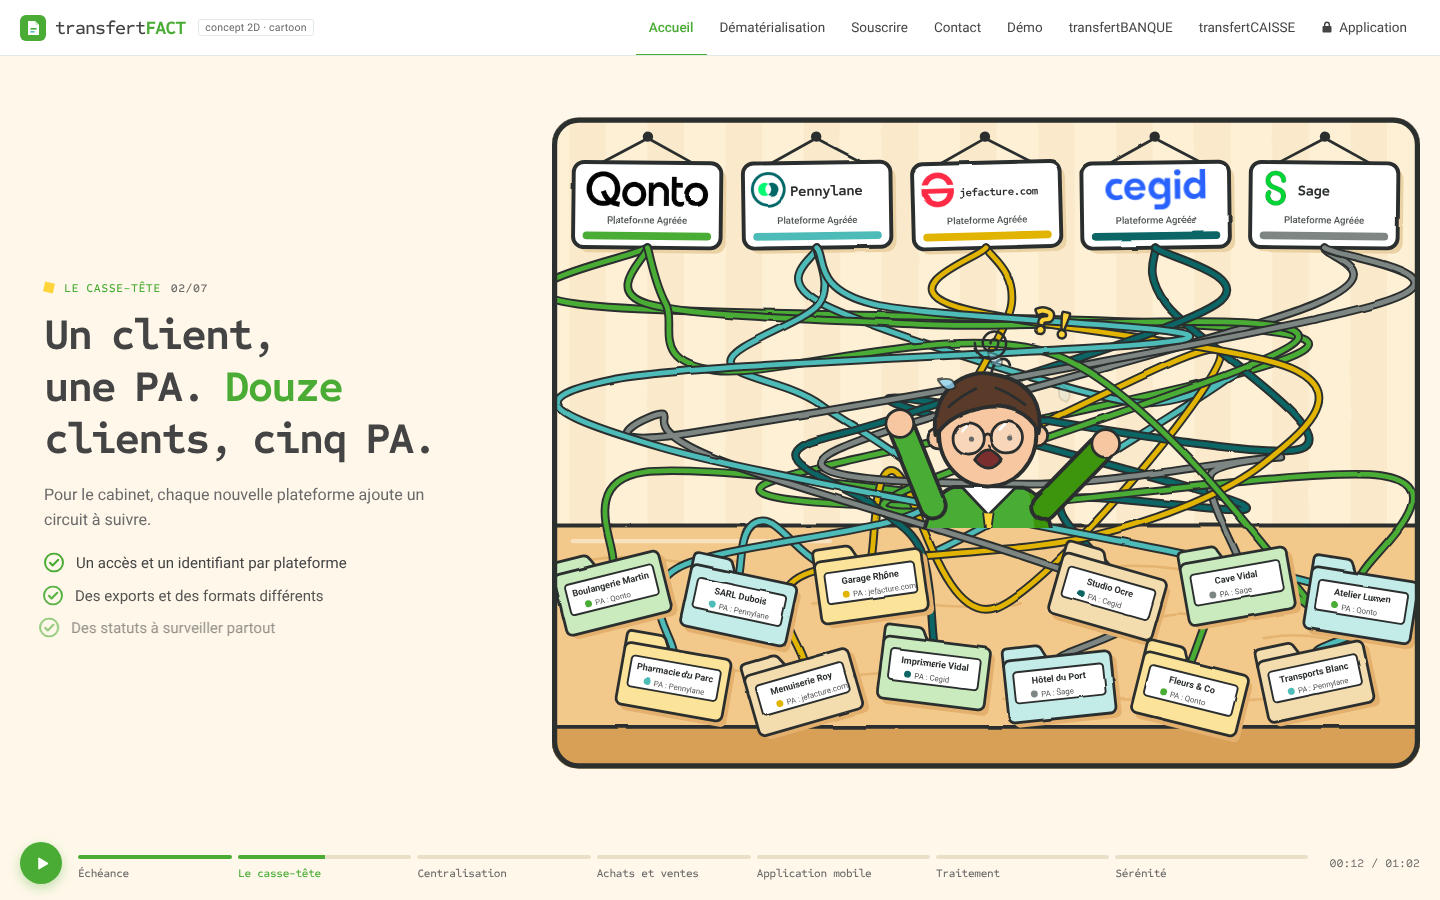
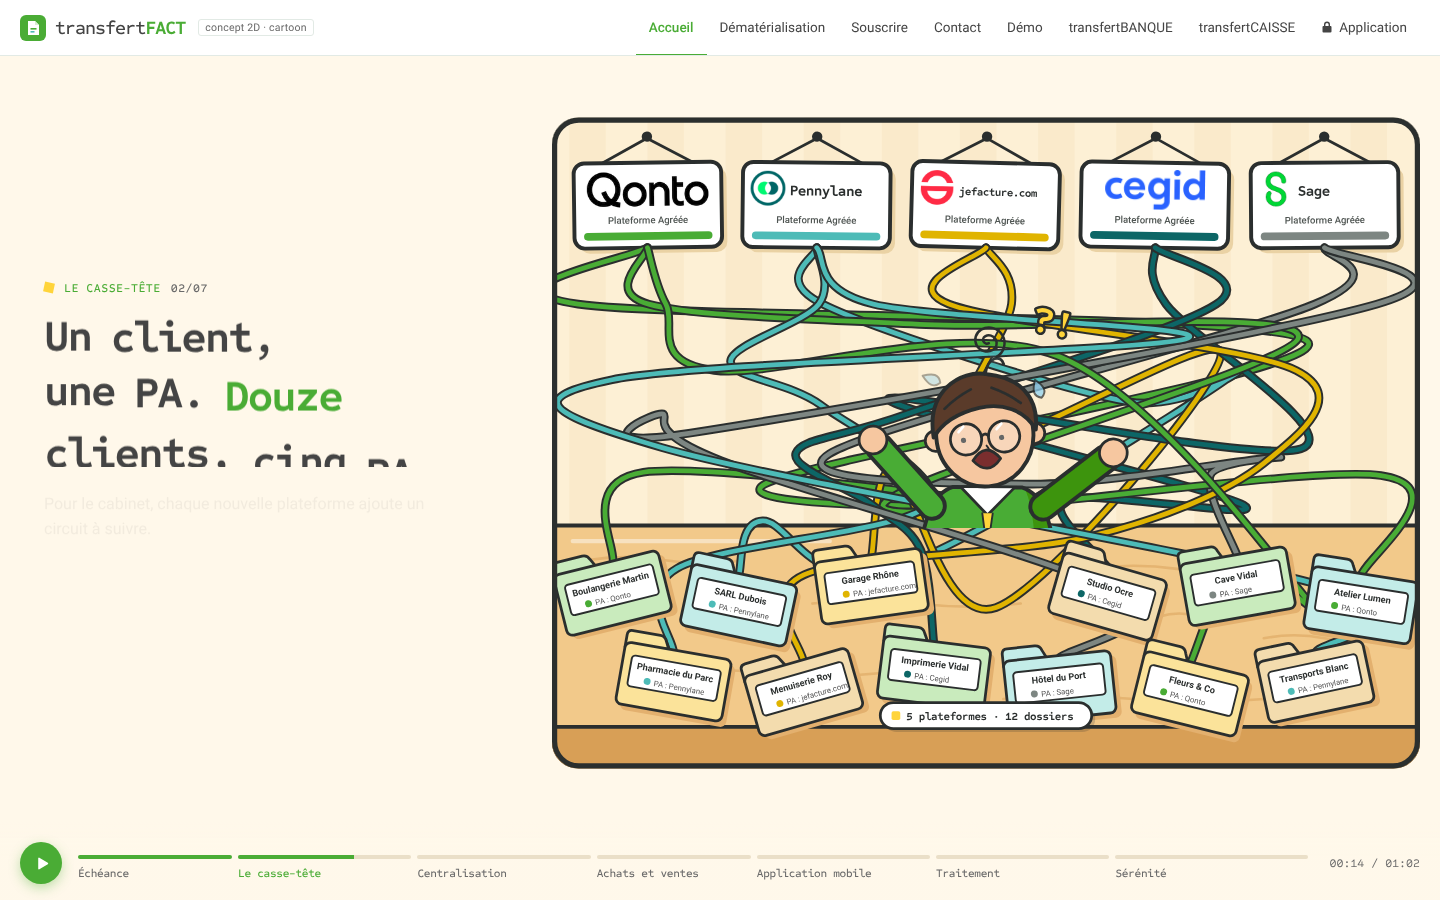
Cartoon 2D : trait fait main fixe, plus de vibration des pixels
Le filtre de déplacement ne change plus de seed (il en changeait 10 fois/s
sur toute la scène, textes compris) et son amplitude passe de 2,4 à 1,2.
Tremblement de panique du personnage divisé par deux.

Claude-Session: https://claude.ai/code/session_0158irw1Xeh6UouZXNwWZMUe

diff --git a/maquettes/maquette-multipa-cartoon.html b/maquettes/maquette-multipa-cartoon.html
@@ -208,8 +208,8 @@ const svg=document.getElementById("svg");
 const style=E("style",null,svg);style.textContent=`.k{stroke:${C.pen};stroke-width:4.5;stroke-linejoin:round;stroke-linecap:round}.k3{stroke-width:3.2}.k2{stroke-width:2.2}`;
 const defs=E("defs",null,svg);
 const filt=E("filter",{id:"boil",x:"-3%",y:"-3%",width:"106%",height:"106%"},defs);
-const turb=E("feTurbulence",{type:"fractalNoise",baseFrequency:"0.022",numOctaves:"2",seed:"1",result:"n"},filt);
-E("feDisplacementMap",{in:"SourceGraphic",in2:"n",scale:"2.4",xChannelSelector:"R",yChannelSelector:"G"},filt);
+E("feTurbulence",{type:"fractalNoise",baseFrequency:"0.022",numOctaves:"2",seed:"1",result:"n"},filt);
+E("feDisplacementMap",{in:"SourceGraphic",in2:"n",scale:"1.2",xChannelSelector:"R",yChannelSelector:"G"},filt);
 const irisClip=E("clipPath",{id:"iris"},defs);const irisC=E("circle",{cx:500,cy:375,r:1300},irisClip);
 E("rect",{x:0,y:0,width:1000,height:750,rx:30},E("clipPath",{id:"panel"},defs));
 E("rect",{x:-50,y:-50,width:1100,height:523},E("clipPath",{id:"above"},defs));
@@ -453,7 +453,7 @@ station(g=>{
       const cl=ph(l2,tc,.6);vis(clics[p],cl>0&&cl<1);tf(clics[p],420+p*40,240-cl*25,(p-2)*6,back(clamp(cl*3)));op(clics[p],1-clamp((cl-.6)/.4));});
     txt(hubSub,`${nOn} PA connectée${nOn>1?"s":""} sur 5 · 12 dossiers clients`);
     // le personnage : débordé, puis soulagé
-    if(l2<0){const pan=ph(l1,2.2,1);ch.setExpr(pan>0?"panic":"worried");const sh=Math.sin(l1*42)*3*pan;
+    if(l2<0){const pan=ph(l1,2.2,1);ch.setExpr(pan>0?"panic":"worried");const sh=Math.sin(l1*42)*1.5*pan;
       ch.pose(500+sh,560,1,sh*.5,1,1,pan?150+Math.sin(l1*9)*22:-16,pan?-150-Math.sin(l1*9+1)*22:16,Math.sin(l1*5)*5*pan);
       vis(ch.swirl,pan>0);tf(ch.swirl,0,-300,l1*400,.9);
       ch.drops.forEach((dr,j)=>{vis(dr,pan>0);const p=(l1*1.6+j/3)%1,a=-2.3+j*.8;tf(dr,Math.cos(a)*(60+p*60),-200+Math.sin(a)*(60+p*60)+p*p*40,a*30,1);op(dr,1-p);});
@@ -695,7 +695,7 @@ function render(T){
   let r=1300;
   if(!reduce){if(c.opens&&lt<IRIS_IN)r=Math.min(r,1300*eio(lt/IRIS_IN));if(c.closes&&lt>c.dur-IRIS_OUT)r=Math.min(r,1300*(1-eio((lt-(c.dur-IRIS_OUT))/IRIS_OUT)));}
   att(irisC,"r",Math.max(0,r).toFixed(1));att(irisC,"cx",String(c.iris[0]));att(irisC,"cy",String(c.iris[1]));
-  if(!reduce)att(turb,"seed",String(1+Math.floor(T*10)%7));
+  /* Trait fait main mais fixe : le seed ne change plus (les pixels ne vibrent pas). */
   return {k:c.i,closing:!reduce&&c.closes&&lt>c.dur-IRIS_OUT};
 }
 
